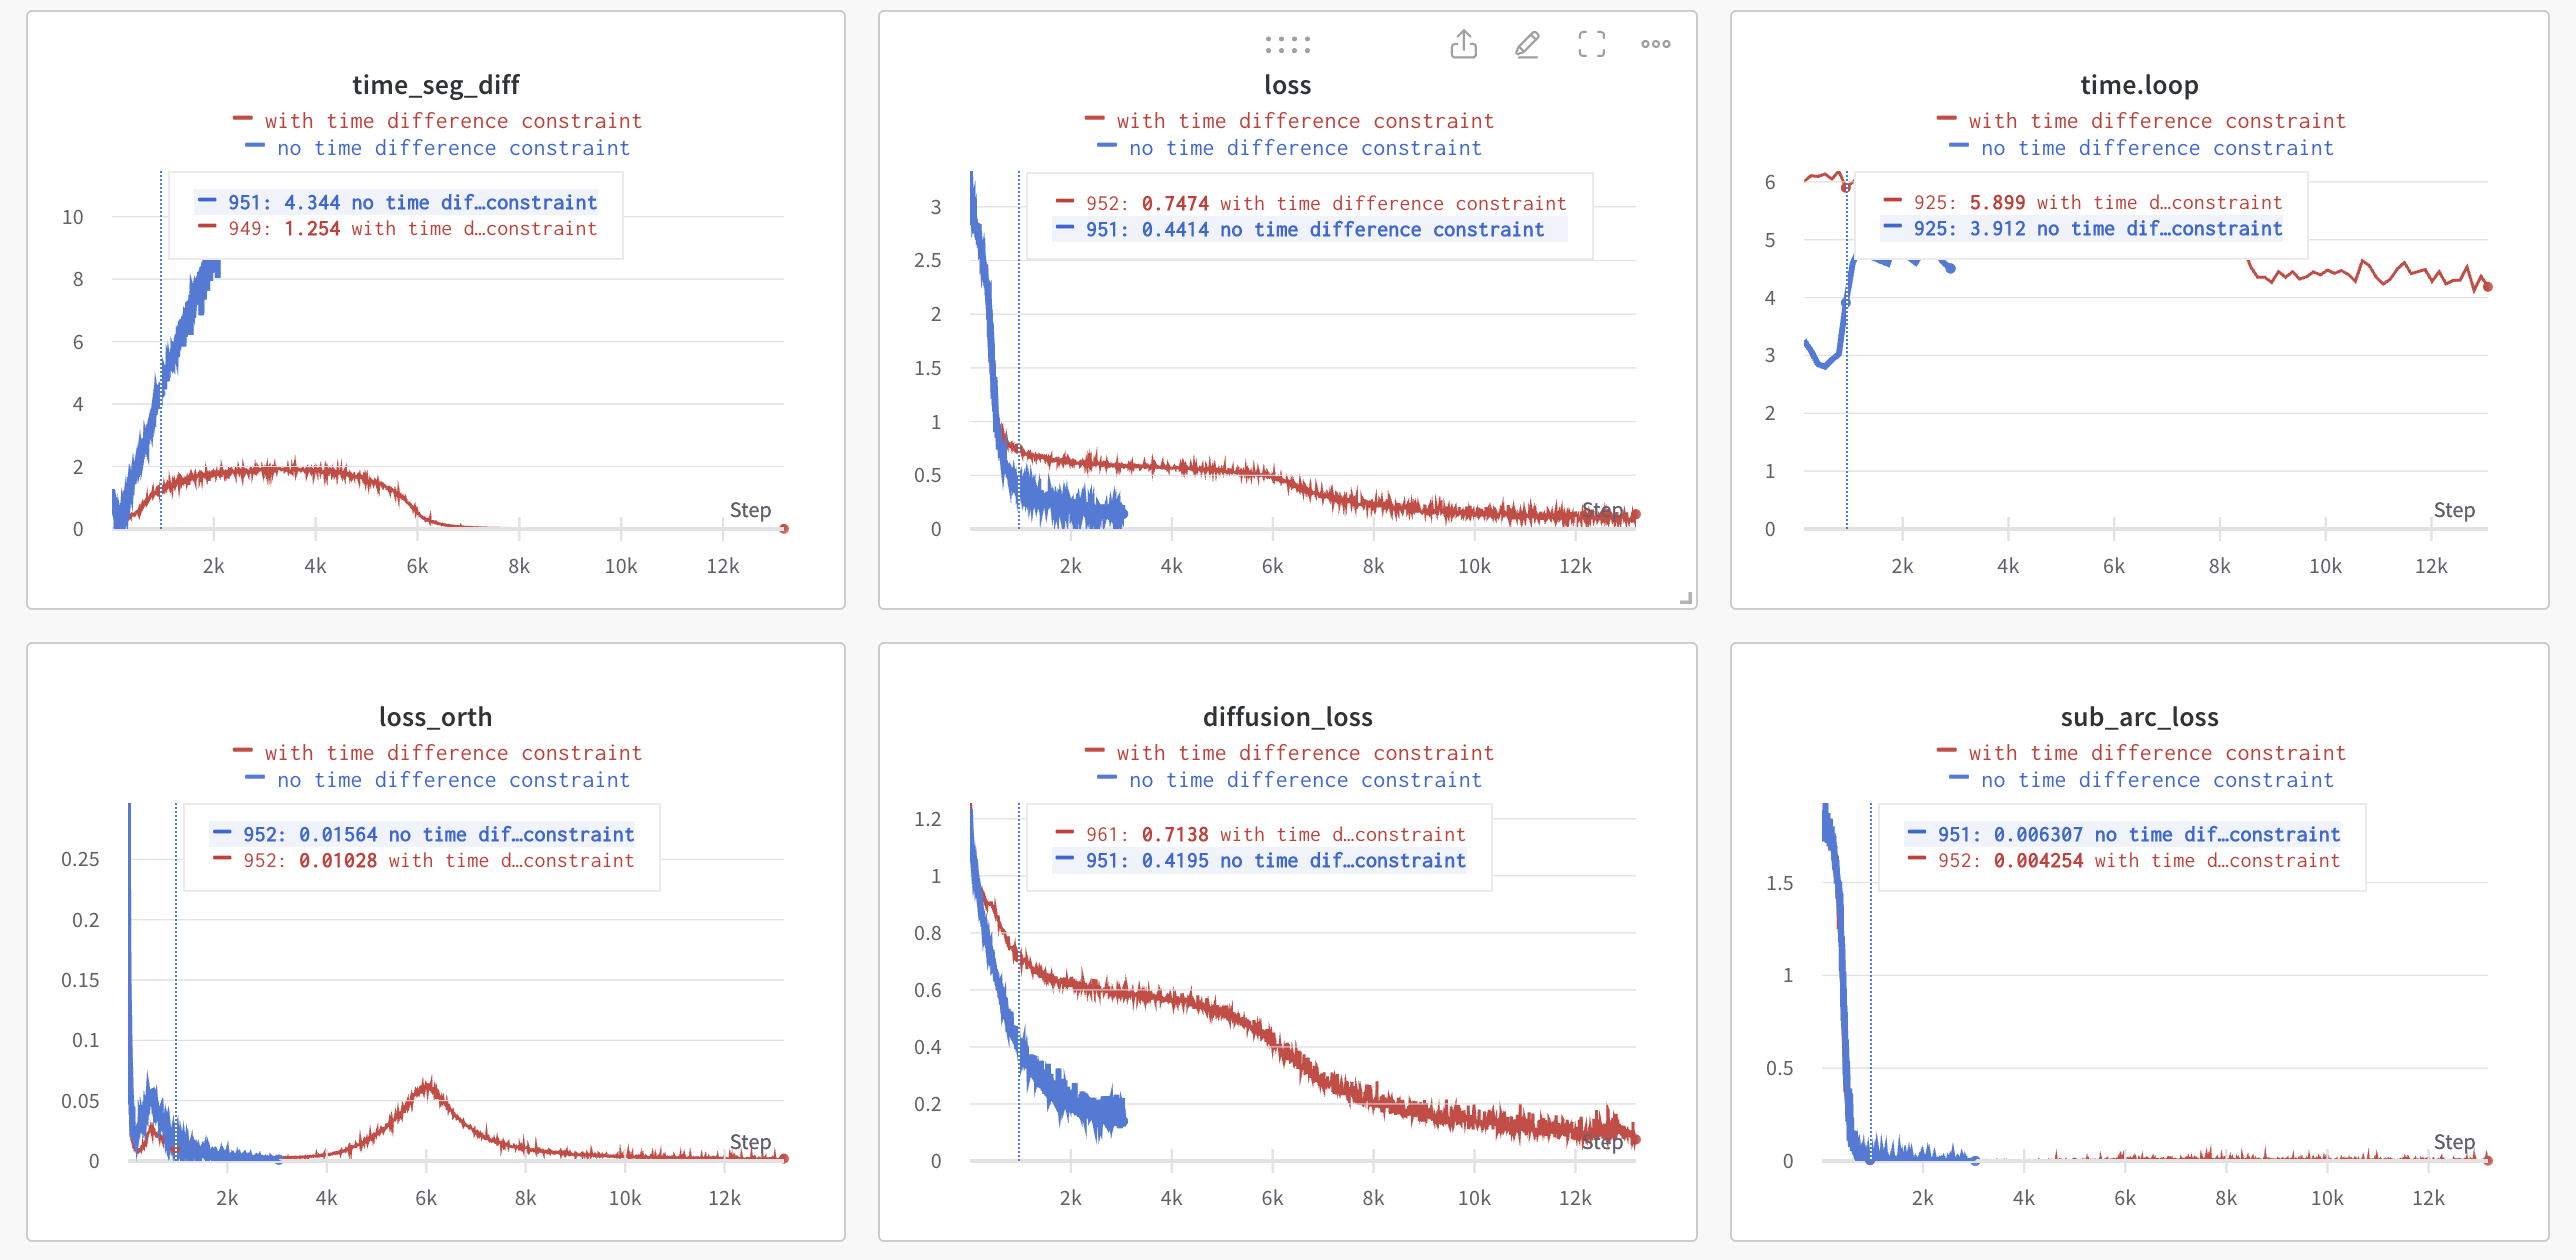
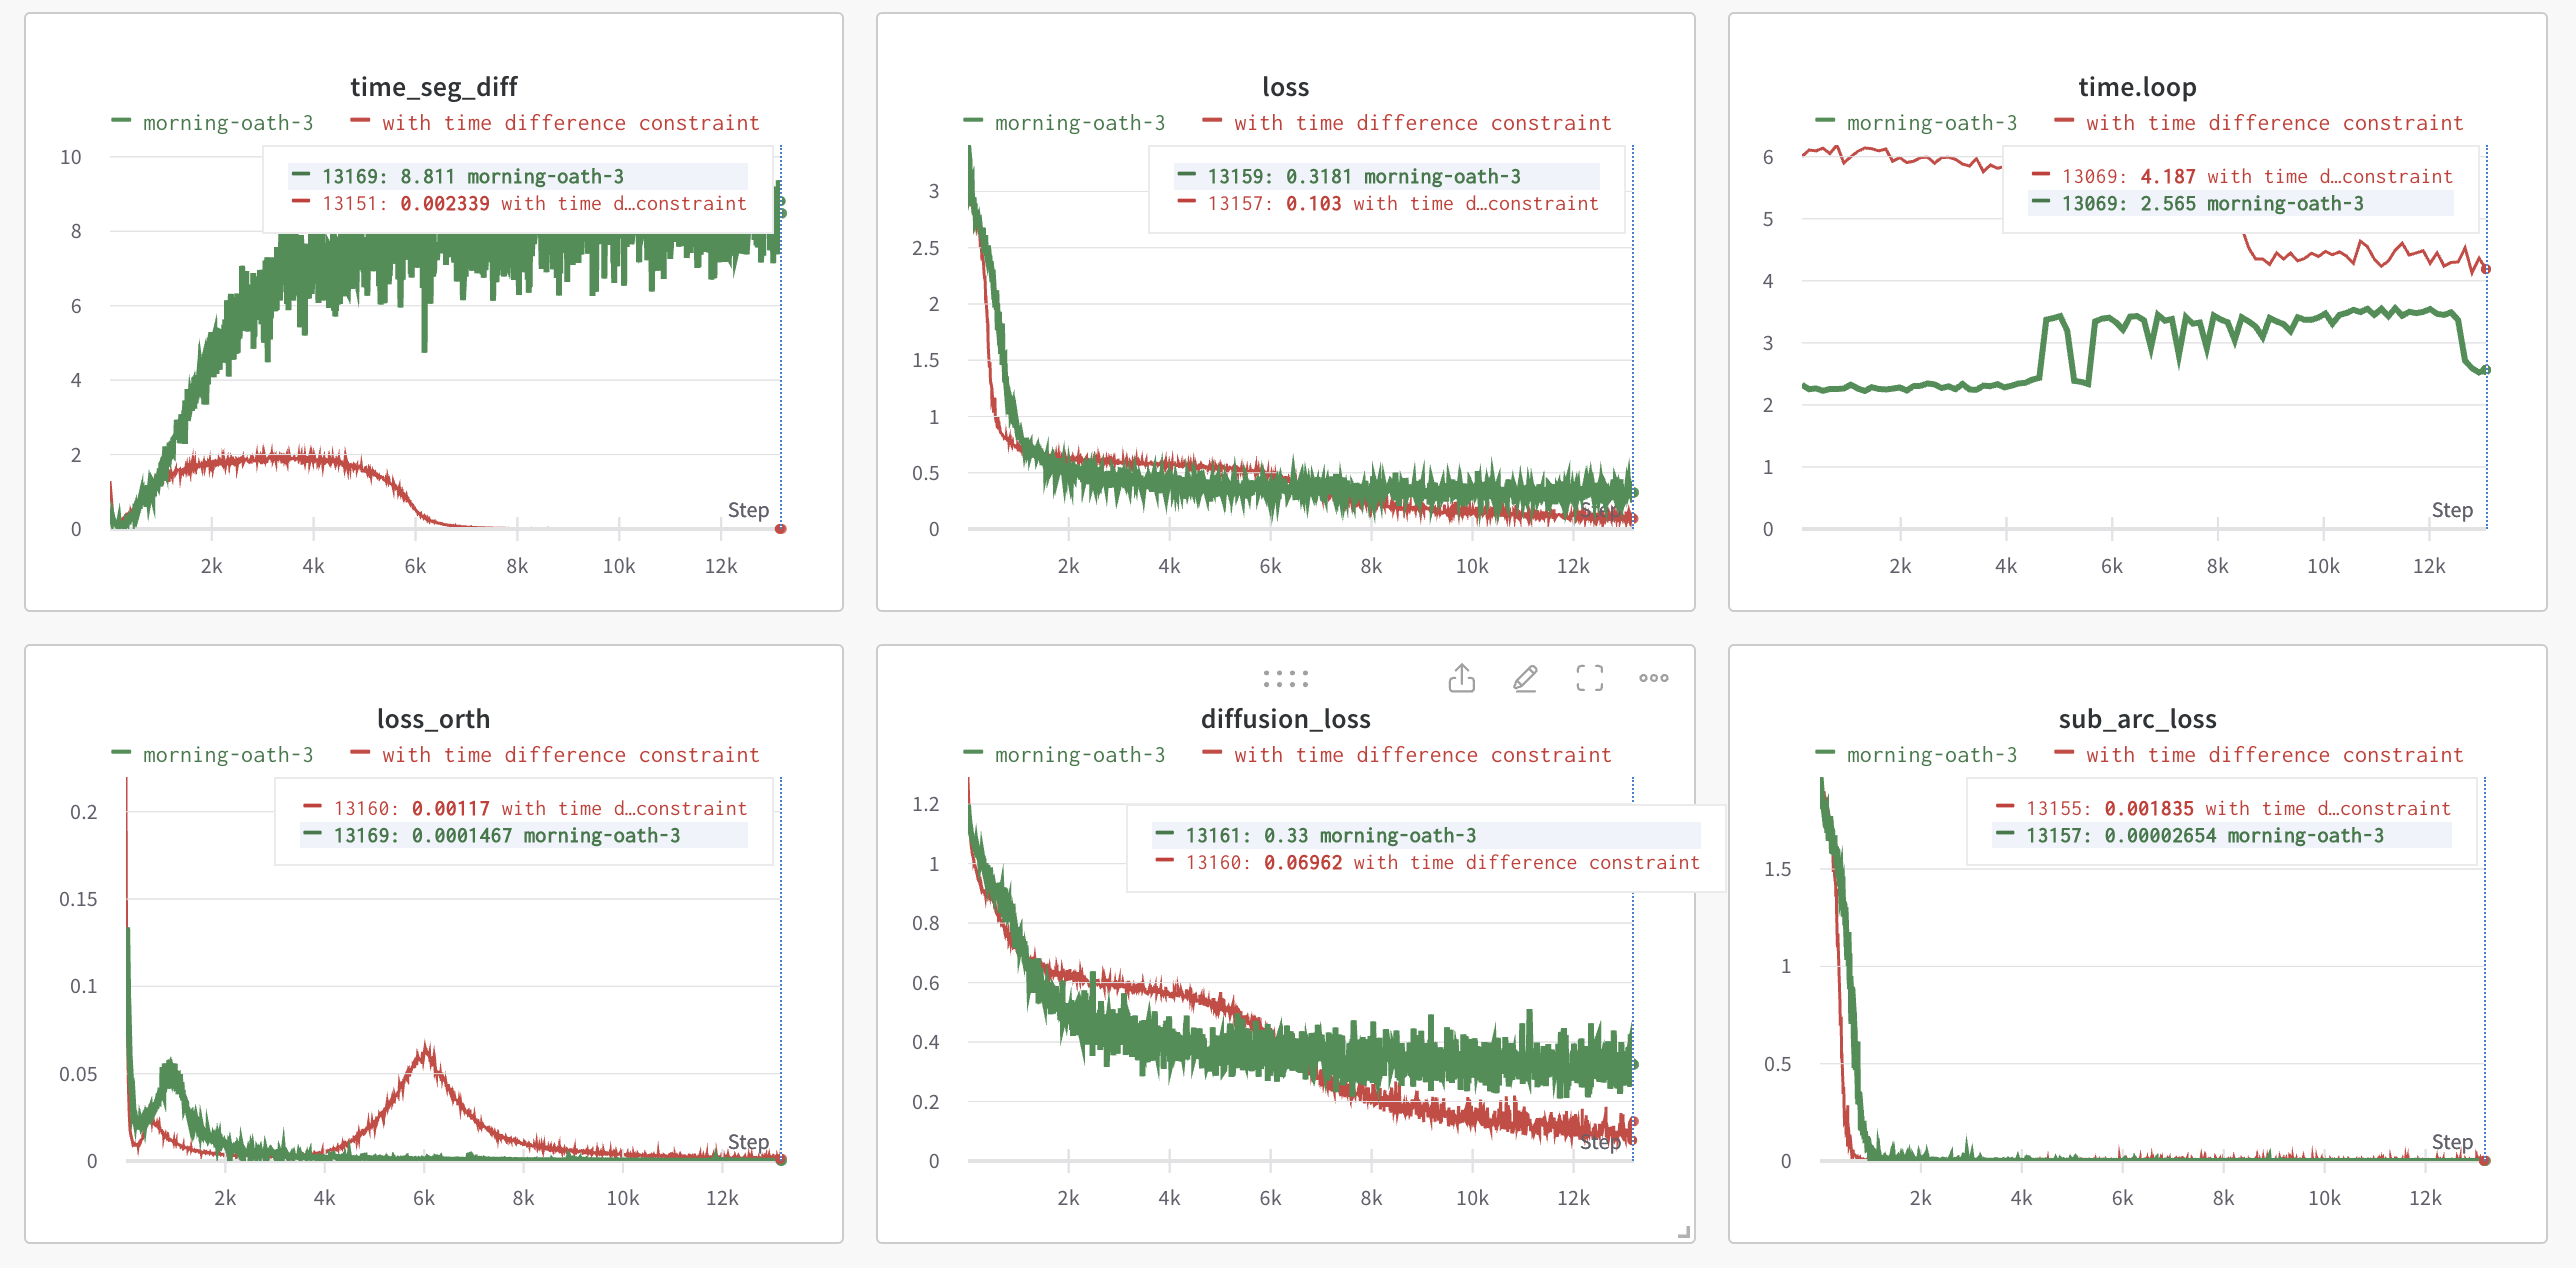
updatecomparison

diff --git a/README.md b/README.md
@@ -80,7 +80,7 @@ wandb login
 Please note that the currrent setting stacks time segments of EEG signals to form a long time series. The default setting is 244 time window with stride step 75. You can change it in the training file. 
 
 One important problem is multiple logits for each time window may lead to multiple values for a same time point. We use a constraint to constraint different values associated to a same time point to be the same. You can use ``time_diff_constraint=True`` to control the constraint. 
-To give a illustrate, we give a comparision example of the generated EEG signals with and without the constraint, where red denotes training with time diff constraint, blue denotes training without time diff constraint.
+To give a illustrate, we give a comparision example of the generated EEG signals with and without the constraint, where red denotes training with time diff constraint, green denotes training without time diff constraint. It illustrates the efficiency of our loss design. 
 
 
 <div align="center">
